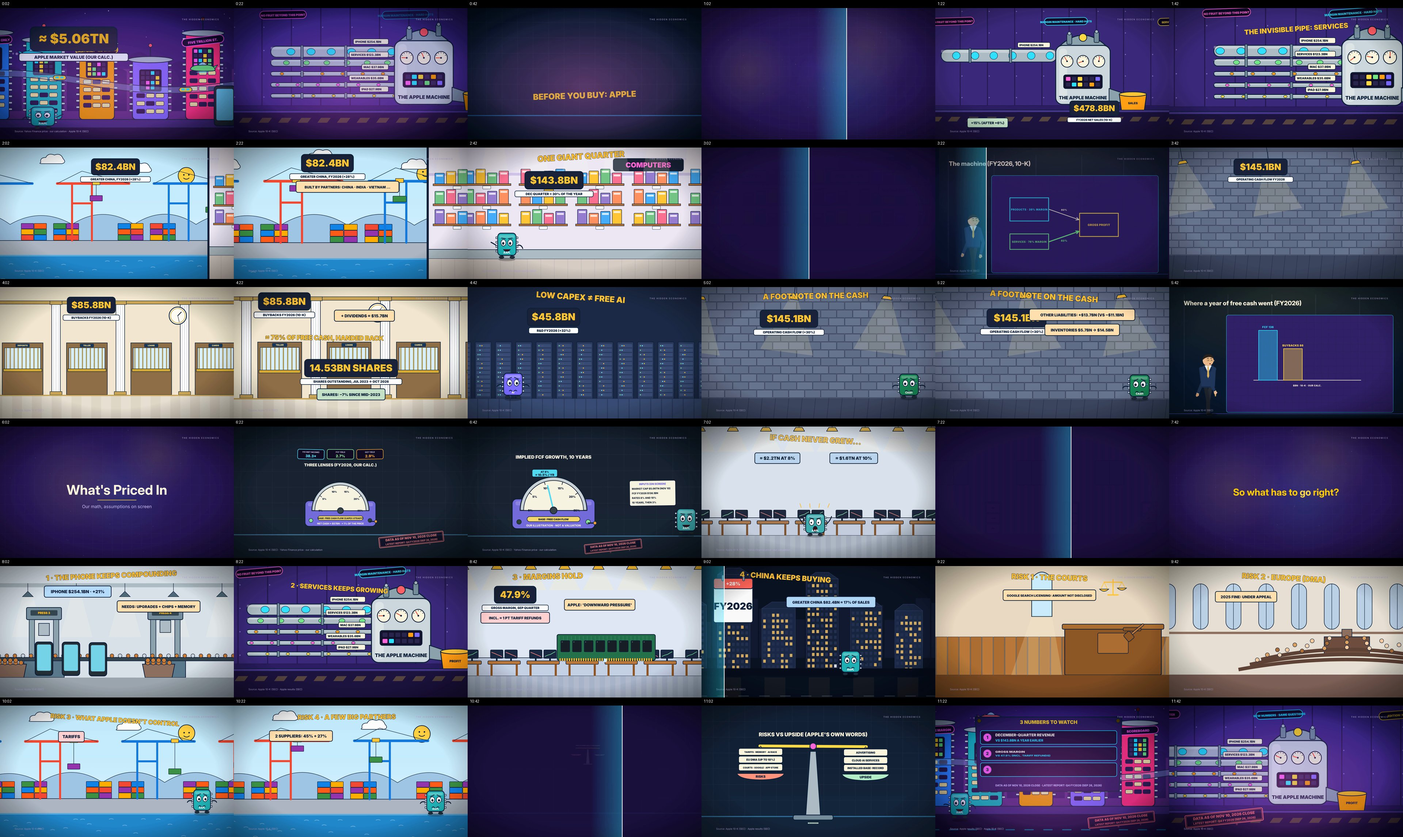
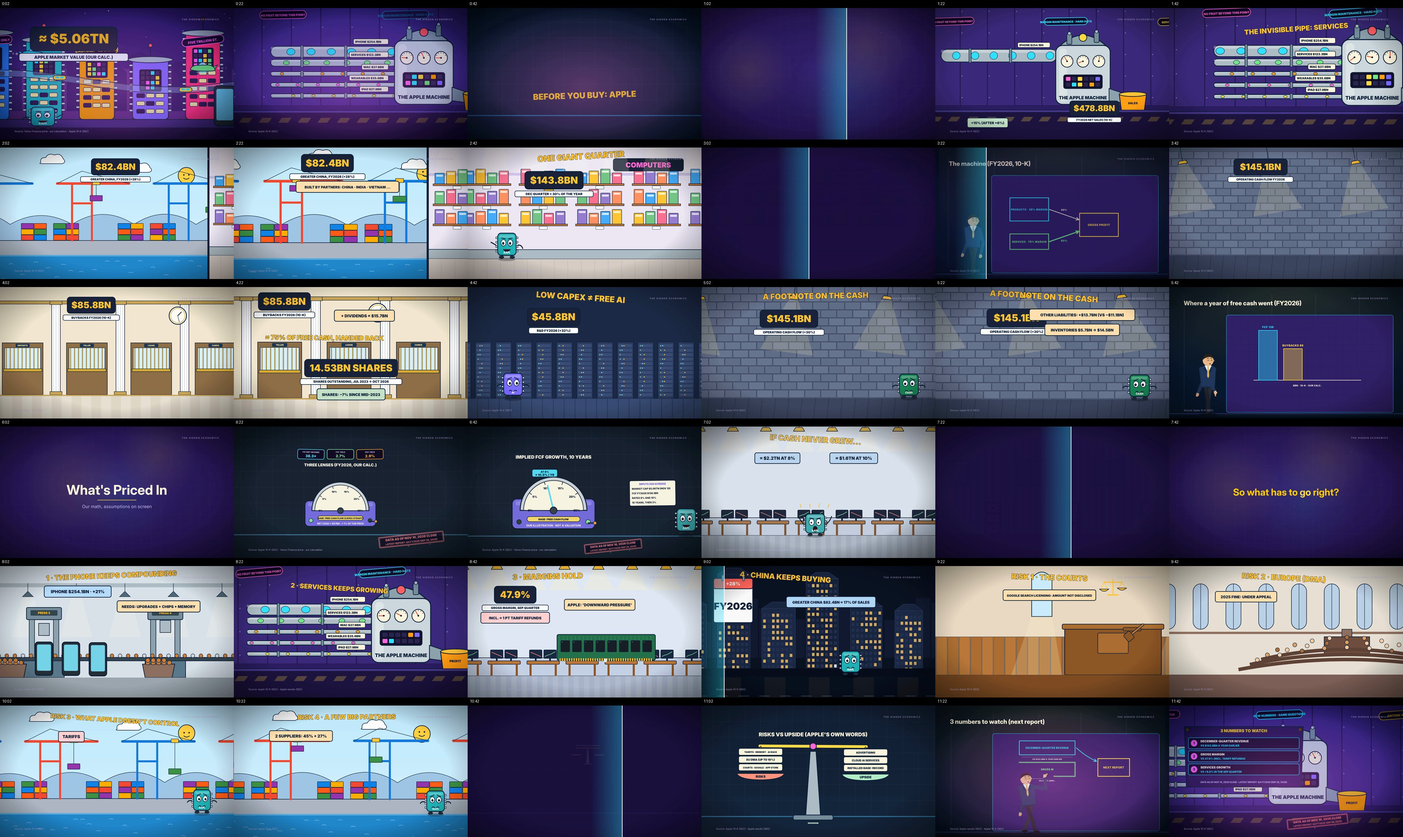
Deliver Before You Buy: Apple (Nov 2026): 12:02, QC pass, package, thumbnails, Short
Claude-Session: https://claude.ai/code/session_014jUfN7raNXxtX19HjW58d3

Changed region(s): [[0.6562, 0.8364, 0.9688, 1.0]]

diff --git a/reports/bybapple_quality_report.md b/reports/bybapple_quality_report.md
@@ -2,19 +2,19 @@
 
 | Check | Result | Detail |
 |---|---|---|
-| File exists | PASS | /home/user/YouTube/output/before-you-buy-apple-2026-11/documentary/before-you-buy-apple-2026-11--documentary.mp4 (287.1 MB) |
+| File exists | PASS | /home/user/YouTube/output/before-you-buy-apple-2026-11/documentary/before-you-buy-apple-2026-11--documentary.mp4 (275.3 MB) |
 | Resolution 1920x1080 | PASS | 1920x1080 |
 | H.264 video | PASS | h264 High, yuv420p, 30/1 fps |
 | AAC audio | PASS | aac 48000 Hz, 2 ch |
 | Duration 11-13:20 min (channel standard 660-800 s) | PASS | 721.90 s (12:01) |
-| English narration | FAIL | OpenAI gpt-4o-mini-tts 'ash', English script; QC errors: 1 |
+| English narration | PASS | OpenAI gpt-4o-mini-tts 'ash', English script; QC errors: 0 |
 | Caption/voice sync | PASS | 392 cues; median cue-start offset 0.05 s, p90 0.35 s; 100% of speech captioned |
 | No black gaps (>1 s) | PASS | none |
 | No frozen picture (>5 s) | PASS | none |
 | Licensed assets only | PASS | every scene asset is on the licence allowlist (assets/manifest.yaml) |
 
 - Loudness: -16.1 LUFS integrated, true peak -3.9 dBFS
-- Scenes: 43; types: act_title x5, channel_intro x1, end_card x1, engine_cartoon x28, engine_draw x3, kinetic_text x5
+- Scenes: 43; types: act_title x5, channel_intro x1, end_card x1, engine_cartoon x27, engine_draw x4, kinetic_text x5
 - Average scene length: 16.8 s; act cards are music-only.
 
 ## Pipeline QC report
@@ -22,10 +22,10 @@
 # QC report: before-you-buy-apple-2026-11 / documentary (long_16x9)
 
 - Runtime: **721.9 s**
-- Video: 1920x1080 @ 30/1 h264, audio aac 48000 Hz, 287.1 MB
+- Video: 1920x1080 @ 30/1 h264, audio aac 48000 Hz, 275.3 MB
 - Loudness: -16.1 LUFS integrated, true peak -3.9 dBFS
-- Errors: **1**, warnings: **72**
-- Technical QC passed: **False**
+- Errors: **0**, warnings: **74**
+- Technical QC passed: **True**
 - Publishable (no unverified claims): **False**
 
 ## Issues
@@ -38,7 +38,7 @@
 - [WARNING] (timing) Segment m5_upside pace 190 wpm (numerals count as one word)
 - [WARNING] (timing) Segment m5_transition pace 117 wpm (numerals count as one word)
 - [WARNING] (captions) Caption reading speed >25 chars/s: 'The year before,'
-- [ERROR] (presenter) Presenter sequences are bunched together; spread them through the film
+- [WARNING] (presenter) Presenter scene p37_watch lasts 31.3s (target 10-25 s)
 - [WARNING] (sources) Number word 'half' outside a placeholder - confirm it is not an unsourced statistic.
 - [WARNING] (sources) Number word 'three' outside a placeholder - confirm it is not an unsourced statistic.
 - [WARNING] (sources) Number word 'six' outside a placeholder - confirm it is not an unsourced statistic.
@@ -93,16 +93,17 @@
 - [WARNING] (sources) Number word 'six' outside a placeholder - confirm it is not an unsourced statistic.
 - [WARNING] (sources) Number word 'three' outside a placeholder - confirm it is not an unsourced statistic.
 - [WARNING] (sources) Number word 'twenty' outside a placeholder - confirm it is not an unsourced statistic.
-- [WARNING] (distinctiveness) Scene sequence 86% similar to 'alaska-the-state-that-pays-you-to-live-there/documentary'
+- [WARNING] (distinctiveness) Scene sequence 89% similar to 'alaska-the-state-that-pays-you-to-live-there/documentary'
 - [WARNING] (distinctiveness) Scene sequence 95% similar to 'before-you-buy-amazon-2026-11/documentary'
-- [WARNING] (distinctiveness) Scene sequence 86% similar to 'how-car-dealerships-really-make-money/documentary'
-- [WARNING] (distinctiveness) Scene sequence 86% similar to 'why-americas-airports-make-money-before-you-fly/documentary'
-- [WARNING] (distinctiveness) Scene sequence 86% similar to 'the-business-behind-americas-student-debt/documentary'
+- [WARNING] (distinctiveness) Scene sequence 89% similar to 'how-car-dealerships-really-make-money/documentary'
+- [WARNING] (distinctiveness) Scene sequence 89% similar to 'why-americas-airports-make-money-before-you-fly/documentary'
+- [WARNING] (distinctiveness) Scene sequence 89% similar to 'the-business-behind-americas-student-debt/documentary'
 - [WARNING] (distinctiveness) Scene sequence 95% similar to 'before-you-buy-tesla-2026-11/documentary'
 - [WARNING] (distinctiveness) Scene sequence 96% similar to 'before-you-buy-meta-2026-11/documentary'
 - [WARNING] (distinctiveness) Scene sequence 95% similar to 'before-you-buy-alphabet-2026-11/documentary'
 - [WARNING] (distinctiveness) Scene sequence 84% similar to 'the-2-billion-that-never-existed/documentary'
 - [WARNING] (distinctiveness) Scene sequence 96% similar to 'before-you-buy-microsoft-2026-11/documentary'
+- [WARNING] (render) Picture static for >4 s from 670.03s (pacing?)
 
 ## Publish blockers - claims needing human verification
 

diff --git a/docs/episodes/byb-apple-2026-11/youtube_package.md b/docs/episodes/byb-apple-2026-11/youtube_package.md
@@ -1,0 +1,52 @@
+# YouTube package: "Before You Buy Apple Stock, Watch This (Nov 2026)" (Before You Buy · Apple · Nov 2026)
+
+Prepared for manual publishing. Nothing has been uploaded. Video length 12:01.
+
+## Title options
+
+1. **Before You Buy Apple Stock, Watch This (Nov 2026)** (recommended)
+2. **Apple Is Worth $5 Trillion. Here's What the Price Assumes (Nov 2026)**
+3. **What's Priced Into Apple Stock? The Numbers Behind $5 Trillion (Nov 2026)**
+
+## Description (1803 chars, YouTube limit 5,000)
+
+```
+Apple is worth about $5.06 trillion, about 38 times last year's profit by our calculation. So what is that price actually betting on? In this edition of Before You Buy, we open Apple's money machine (iPhone, Services, Mac, iPad and wearables), follow a year of free cash flow into buybacks and dividends, run three lenses and a simple reverse calculation to see what growth today's price assumes, then weigh what has to go right, what could go wrong and the upside Apple itself points to, and finish with the three numbers to watch at the next report.
+
+Data as of the November 10, 2026 close · latest report: Q4 FY2026 (quarter ended September 26, 2026). This video is updated every quarter.
+Every figure comes from Apple's 10-K, 10-Qs and earnings release on SEC EDGAR, plus the closing price; ratios and the reverse calculation are our own calculations (illustration, assumptions on screen). For educational purposes only. Not financial, investment or tax advice. Not affiliated with Apple Inc.
+
+Chapters
+0:00 Five trillion
+1:01 The machine
+3:33 The cash
+5:57 What's priced in
+7:42 What has to happen
+9:05 Risks and upside
+11:08 The scorecard
+
+Sources
+- Apple Inc. (SEC filing): Apple Inc. Form 10-K for fiscal 2026 (year ended September 26, 2026) - https://www.sec.gov/Archives/edgar/data/320193/000032019326000026/aapl-20260926.htm
+- Apple Inc. (SEC filings): Apple Q4 FY2026 results, Form 8-K Exhibit 99.1 (Nov 2, 2026); Forms 10-Q Q1-Q3 FY2026 - https://www.sec.gov/Archives/edgar/data/320193/000032019326000024/a8-kex991q4202609262026.htm
+- Yahoo Finance; Apple Inc.: AAPL closing price, Nov 10, 2026 (data vendor); share count from the 10-K cover (Oct 23, 2026) - https://finance.yahoo.com/quote/AAPL/history/
+
+Narration: AI voice. Animation: original. Nothing in this video is financial advice.
+```
+
+## Chapters
+
+```
+0:00 Five trillion
+1:01 The machine
+3:33 The cash
+5:57 What's priced in
+7:42 What has to happen
+9:05 Risks and upside
+11:08 The scorecard
+```
+
+## Tags
+
+```
+Apple stock, AAPL, before you buy, Apple earnings, iPhone, Apple services, valuation, stock analysis, Nasdaq, The Hidden Economics
+```

diff --git a/storyboards/bybapple_storyboard.md b/storyboards/bybapple_storyboard.md
@@ -44,6 +44,6 @@ Total 12:02 (721.9 s), 43 scenes. Timestamps come from the narration timing of t
 | 38 | 10:11 | 30.6s | `s34b_partners` | engine_cartoon |  | And there's a quieter concentration risk. Almost all of Apple's hardware is built by outso... | tenk |
 | 39 | 10:42 | 23.2s | `s35_scale` | engine_cartoon |  | And the upside the price might not fully include. Apple says its installed base of active ... | tenk, q4 |
 | 40 | 11:05 | 3.4s | `s36_t5` | kinetic_text | Kinetic typography: lines enter word by word on narration cues | So, what should you watch? | - |
-| 41 | 11:09 | 31.3s | `s37_score` | engine_cartoon |  | Here's the scorecard for the next report, expected around late January twenty twenty-seven... | q4, tenk |
+| 41 | 11:09 | 31.3s | `p37_watch` | engine_draw |  | Here's the scorecard for the next report, expected around late January twenty twenty-seven... | q4, tenk |
 | 42 | 11:40 | 14.0s | `s38_edition` | engine_cartoon |  | That's Apple, November twenty twenty-six edition. We'll update it after every report, with... | tenk |
 | 43 | 11:54 | 8.1s | `s39_end` | end_card | Closing words land; brand line draws | Next in the series, another giant of the stock market, opened up the same way. This is The... | - |

diff --git a/docs/SHORTS_COPY_PASTE.md b/docs/SHORTS_COPY_PASTE.md
@@ -950,3 +950,22 @@ Watch the full story: "How SpaceX Actually Makes Money" on The Hidden Economics.
 ```
 SpaceX, Starlink, xAI, rockets, satellites, AI data centers, IPO, Elon Musk, space economy, economics, shorts, economics explained, The Hidden Economics
 ```
+
+## byb-apple-2026-11
+
+**Title**
+```
+Apple Is Worth $5 Trillion. Here's What That Price Assumes #shorts
+```
+**Description**
+```
+Apple is worth about five point oh six trillion dollars. That is the price of every share, three hundred and forty-eight dollars and fifty-one cents at the close on November tenth, twenty twenty-six, times about fourteen and a half billion shares.
+
+Watch the full story: "Before You Buy Apple Stock, Watch This (Nov 2026)" on The Hidden Economics. Every figure in it is sourced.
+
+#shorts #apple #stocks #investing #economics
+```
+**Tags**
+```
+Apple stock, AAPL, before you buy, Apple earnings, iPhone, Apple services, valuation, stock analysis, Nasdaq, shorts, economics explained, The Hidden Economics
+```

diff --git a/docs/SHORTS.md b/docs/SHORTS.md
@@ -54,3 +54,4 @@ Built by `tools/make_shorts.py` from each episode's own opening hook (same narra
 | 45-prediction-markets | Prediction Markets Traded $25 Billion in One Month | $25 BILLION / IN ONE MONTH | 50 s | `docs/episodes/45-prediction-markets/youtube-short/short_package.md` |
 | 49-college-sports | College Sports Just Got a $20.5 Million Payroll | $20.5 MILLION / COLLEGE PAYROLL | 54 s | `docs/episodes/49-college-sports/youtube-short/short_package.md` |
 | 51-spacex | An AI Company Agreed to Pay SpaceX $1.25 Billion a Month | $1.25 BILLION / A MONTH, FOR CHIPS | 53 s | `docs/episodes/51-spacex/youtube-short/short_package.md` |
+| byb-apple-2026-11 | Apple Is Worth $5 Trillion. Here's What That Price Assumes | APPLE: $5 TRILLION / 38× LAST YEAR'S PROFIT | 54 s | `docs/episodes/byb-apple-2026-11/youtube-short/short_package.md` |

diff --git a/research/bybapple_sources.md b/research/bybapple_sources.md
@@ -1,6 +1,6 @@
 # Research dossier - Before You Buy Apple Stock, Watch This (Nov 2026)
 
-Generated 2026-11-11T22:09:25+00:00. Status ladder: data_derived and human_verified are publishable; source_located means located by web research, not yet read in full by a named reviewer. Reference period = the year/date the statistic describes.
+Generated 2026-11-11T23:07:17+00:00. Status ladder: data_derived and human_verified are publishable; source_located means located by web research, not yet read in full by a named reviewer. Reference period = the year/date the statistic describes.
 
 ## Sources
 

diff --git a/docs/episodes/byb-apple-2026-11/youtube-short/short_package.md b/docs/episodes/byb-apple-2026-11/youtube-short/short_package.md
@@ -23,7 +23,7 @@ Watch the full story: "Before You Buy Apple Stock, Watch This (Nov 2026)" on The
 ## Tags
 
 ```
-shorts, economics explained, The Hidden Economics
+Apple stock, AAPL, before you buy, Apple earnings, iPhone, Apple services, valuation, stock analysis, Nasdaq, shorts, economics explained, The Hidden Economics
 ```
 
 ## On-screen hook
